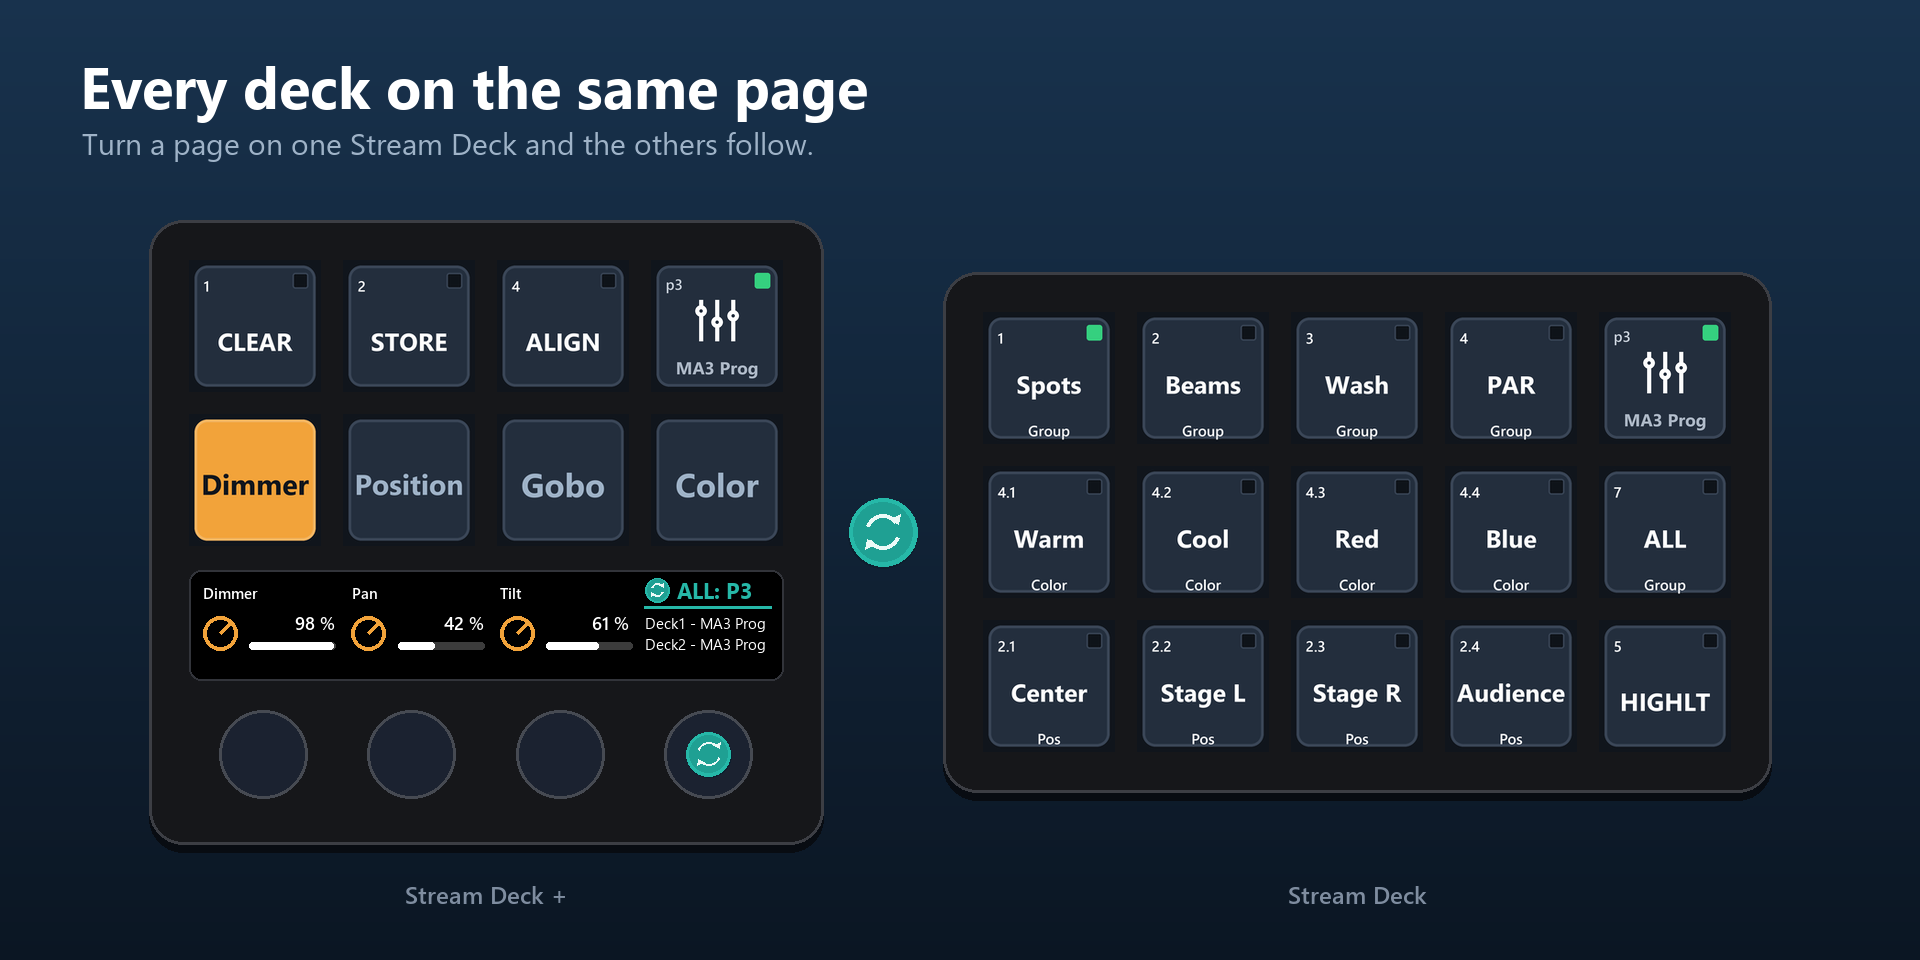
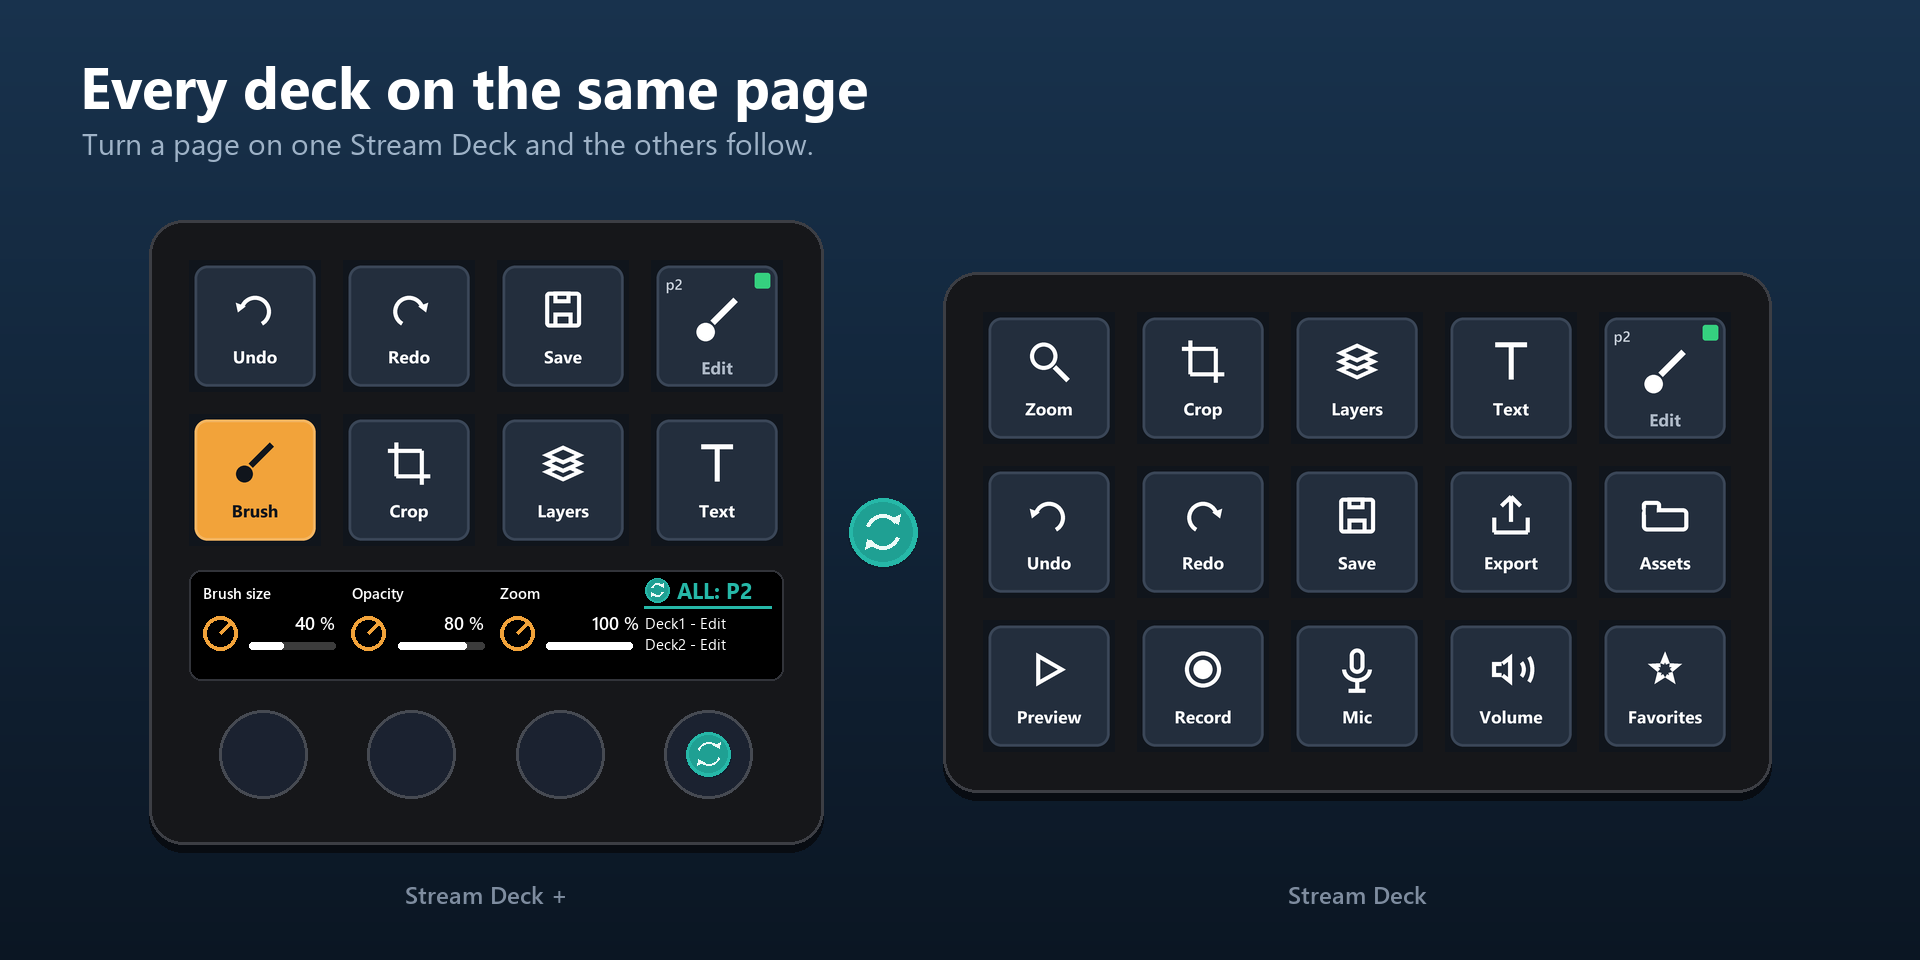
Illustrations: universal examples (editing, streaming, music, office) instead of lighting

diff --git a/tools/gen-promo.py b/tools/gen-promo.py
@@ -1,0 +1,246 @@
+# Universelle reklameillustrasjoner: redigering, strømming, musikk og kontor i stedet for lysprogrammering.
+# Skriver over docs/examples/1-3,5,6 og marketplace/gallery-*. Generiske ikoner, ingen varemerker.
+import importlib.util, math, os
+from PIL import Image, ImageDraw
+
+HERE = os.path.dirname(os.path.abspath(__file__))
+ROOT = os.path.dirname(HERE)
+
+
+def load(name, file):
+    spec = importlib.util.spec_from_file_location(name, os.path.join(HERE, file))
+    m = importlib.util.module_from_spec(spec)
+    spec.loader.exec_module(m)
+    return m
+
+
+il = load("il", "gen-illustrations.py")
+i2 = load("i2", "gen-illustrations-2.py")
+gi, f, KEY = il.gi, il.f, il.KEY
+WHITE, GREY, CYAN = il.WHITE, il.GREY, il.CYAN
+TILE = (35, 46, 61)
+ORANGE, RED, GREEN, DARK = (242, 163, 58), (214, 64, 64), (53, 208, 127), (16, 21, 28)
+
+
+# ---- generiske glyfer: (d, cx, cy, k, farge, strek) ----
+def g_brush(d, cx, cy, k, c, w):
+    d.line((cx + 16 * k, cy - 18 * k, cx - 4 * k, cy + 2 * k), fill=c, width=w + int(2 * k))
+    d.ellipse((cx - 18 * k, cy + 2 * k, cx - 2 * k, cy + 18 * k), fill=c)
+
+
+def g_crop(d, cx, cy, k, c, w):
+    d.line((cx - 12 * k, cy - 20 * k, cx - 12 * k, cy + 12 * k), fill=c, width=w)
+    d.line((cx - 12 * k, cy + 12 * k, cx + 20 * k, cy + 12 * k), fill=c, width=w)
+    d.line((cx - 20 * k, cy - 12 * k, cx + 12 * k, cy - 12 * k), fill=c, width=w)
+    d.line((cx + 12 * k, cy - 12 * k, cx + 12 * k, cy + 20 * k), fill=c, width=w)
+
+
+def g_layers(d, cx, cy, k, c, w):
+    for dy in (8, 0, -8):
+        y = cy + dy * k
+        d.polygon([(cx, y - 9 * k), (cx + 20 * k, y), (cx, y + 9 * k), (cx - 20 * k, y)], fill=TILE, outline=c, width=w)
+
+
+def _arc_arrow(d, cx, cy, r, a0, a1, c, w, head_at_start):
+    d.arc((cx - r, cy - r, cx + r, cy + r), start=a0, end=a1, fill=c, width=w)
+    a = math.radians(a0 if head_at_start else a1)
+    sgn = -1 if head_at_start else 1
+    tip = (cx + r * math.cos(a), cy + r * math.sin(a))
+    tx, ty = -math.sin(a) * sgn, math.cos(a) * sgn
+    nx, ny = math.cos(a), math.sin(a)
+    s = r * 0.55
+    base = (tip[0] - tx * s * 0.2, tip[1] - ty * s * 0.2)
+    d.polygon([(tip[0] + tx * s * 0.75, tip[1] + ty * s * 0.75), (base[0] + nx * s * 0.6, base[1] + ny * s * 0.6), (base[0] - nx * s * 0.6, base[1] - ny * s * 0.6)], fill=c)
+
+
+def g_undo(d, cx, cy, k, c, w):
+    _arc_arrow(d, cx, cy + 2 * k, 15 * k, 200, 60, c, w, True)
+
+
+def g_redo(d, cx, cy, k, c, w):
+    _arc_arrow(d, cx, cy + 2 * k, 15 * k, 120, 340, c, w, False)
+
+
+def g_text(d, cx, cy, k, c, w):
+    d.line((cx - 15 * k, cy - 16 * k, cx + 15 * k, cy - 16 * k), fill=c, width=w + int(k))
+    d.line((cx, cy - 16 * k, cx, cy + 17 * k), fill=c, width=w + int(k))
+
+
+def g_zoom(d, cx, cy, k, c, w):
+    d.ellipse((cx - 18 * k, cy - 18 * k, cx + 8 * k, cy + 8 * k), outline=c, width=w)
+    d.line((cx + 5 * k, cy + 5 * k, cx + 18 * k, cy + 18 * k), fill=c, width=w + int(k))
+
+
+def g_export(d, cx, cy, k, c, w):
+    d.line((cx - 16 * k, cy + 2 * k, cx - 16 * k, cy + 16 * k), fill=c, width=w)
+    d.line((cx - 16 * k, cy + 16 * k, cx + 16 * k, cy + 16 * k), fill=c, width=w)
+    d.line((cx + 16 * k, cy + 16 * k, cx + 16 * k, cy + 2 * k), fill=c, width=w)
+    d.line((cx, cy + 6 * k, cx, cy - 18 * k), fill=c, width=w)
+    d.line((cx, cy - 18 * k, cx - 9 * k, cy - 9 * k), fill=c, width=w)
+    d.line((cx, cy - 18 * k, cx + 9 * k, cy - 9 * k), fill=c, width=w)
+
+
+def g_save(d, cx, cy, k, c, w):
+    d.rounded_rectangle((cx - 17 * k, cy - 17 * k, cx + 17 * k, cy + 17 * k), radius=4 * k, outline=c, width=w)
+    d.rectangle((cx - 9 * k, cy - 17 * k, cx + 7 * k, cy - 6 * k), outline=c, width=w)
+    d.rectangle((cx - 9 * k, cy + 3 * k, cx + 9 * k, cy + 17 * k), outline=c, width=w)
+
+
+def g_mic(d, cx, cy, k, c, w):
+    d.rounded_rectangle((cx - 7 * k, cy - 20 * k, cx + 7 * k, cy + 4 * k), radius=7 * k, outline=c, width=w)
+    d.arc((cx - 14 * k, cy - 12 * k, cx + 14 * k, cy + 12 * k), start=0, end=180, fill=c, width=w)
+    d.line((cx, cy + 12 * k, cx, cy + 20 * k), fill=c, width=w)
+    d.line((cx - 8 * k, cy + 20 * k, cx + 8 * k, cy + 20 * k), fill=c, width=w)
+
+
+def g_rec(d, cx, cy, k, c, w):
+    d.ellipse((cx - 17 * k, cy - 17 * k, cx + 17 * k, cy + 17 * k), outline=c, width=w)
+    d.ellipse((cx - 9 * k, cy - 9 * k, cx + 9 * k, cy + 9 * k), fill=c)
+
+
+def g_chat(d, cx, cy, k, c, w):
+    d.rounded_rectangle((cx - 19 * k, cy - 16 * k, cx + 19 * k, cy + 9 * k), radius=6 * k, outline=c, width=w)
+    d.polygon([(cx - 9 * k, cy + 8 * k), (cx - 9 * k, cy + 19 * k), (cx + 2 * k, cy + 8 * k)], fill=c)
+
+
+def g_screen(d, cx, cy, k, c, w):
+    d.rounded_rectangle((cx - 20 * k, cy - 16 * k, cx + 20 * k, cy + 9 * k), radius=3 * k, outline=c, width=w)
+    d.line((cx, cy + 9 * k, cx, cy + 17 * k), fill=c, width=w)
+    d.line((cx - 10 * k, cy + 17 * k, cx + 10 * k, cy + 17 * k), fill=c, width=w)
+
+
+def g_note(d, cx, cy, k, c, w):
+    d.ellipse((cx - 14 * k, cy + 6 * k, cx - 2 * k, cy + 17 * k), fill=c)
+    d.line((cx - 3 * k, cy + 11 * k, cx - 3 * k, cy - 18 * k), fill=c, width=w)
+    d.line((cx - 3 * k, cy - 18 * k, cx + 13 * k, cy - 12 * k), fill=c, width=w + int(k))
+
+
+def g_next(d, cx, cy, k, c, w):
+    d.polygon([(cx - 14 * k, cy - 14 * k), (cx + 6 * k, cy), (cx - 14 * k, cy + 14 * k)], outline=c, width=w)
+    d.line((cx + 13 * k, cy - 14 * k, cx + 13 * k, cy + 14 * k), fill=c, width=w + int(k))
+
+
+def g_timer(d, cx, cy, k, c, w):
+    d.ellipse((cx - 16 * k, cy - 13 * k, cx + 16 * k, cy + 19 * k), outline=c, width=w)
+    d.line((cx, cy + 3 * k, cx, cy - 7 * k), fill=c, width=w)
+    d.line((cx - 5 * k, cy - 19 * k, cx + 5 * k, cy - 19 * k), fill=c, width=w)
+
+
+def g_mail(d, cx, cy, k, c, w):
+    d.rounded_rectangle((cx - 20 * k, cy - 13 * k, cx + 20 * k, cy + 14 * k), radius=3 * k, outline=c, width=w)
+    d.line((cx - 19 * k, cy - 11 * k, cx, cy + 3 * k), fill=c, width=w)
+    d.line((cx, cy + 3 * k, cx + 19 * k, cy - 11 * k), fill=c, width=w)
+
+
+def g_calendar(d, cx, cy, k, c, w):
+    d.rounded_rectangle((cx - 17 * k, cy - 14 * k, cx + 17 * k, cy + 17 * k), radius=3 * k, outline=c, width=w)
+    d.line((cx - 17 * k, cy - 4 * k, cx + 17 * k, cy - 4 * k), fill=c, width=w)
+    for dx in (-8, 8):
+        d.line((cx + dx * k, cy - 19 * k, cx + dx * k, cy - 11 * k), fill=c, width=w)
+
+
+def ukey(label, glyph, fill=None):
+    """Vanlig tast: ikon og navn. fill gir farget flis (aktiv/advarsel)."""
+    S, q = 576, 4
+    img, d, _ = gi.tile_base(S)
+    fg = WHITE
+    if fill:
+        edge = tuple(min(255, int(ch * 0.8 + 51)) for ch in fill)
+        d.rounded_rectangle((6 * q, 6 * q, 138 * q, 138 * q), radius=14 * q, fill=fill, outline=edge, width=3 * q)
+        fg = DARK if (0.299 * fill[0] + 0.587 * fill[1] + 0.114 * fill[2]) > 150 else WHITE
+    if fill:  # glyfer med TILE-fyll (lag) trenger flisfargen
+        global TILE
+        old, TILE = TILE, fill
+        glyph(d, 72 * q, 54 * q, q * 1.15, fg, int(4.5 * q))
+        TILE = old
+    else:
+        glyph(d, 72 * q, 54 * q, q * 1.15, fg, int(4.5 * q))
+    fo = f(19 * q, "bold")
+    tw = d.textlength(label, font=fo)
+    d.text(((S - tw) / 2, 92 * q), label, font=fo, fill=fg)
+    return img.resize((KEY, KEY), Image.LANCZOS)
+
+
+U = {
+    "undo": ukey("Undo", g_undo), "redo": ukey("Redo", g_redo), "save": ukey("Save", g_save), "export": ukey("Export", g_export),
+    "brush": ukey("Brush", g_brush, ORANGE), "crop": ukey("Crop", g_crop), "layers": ukey("Layers", g_layers), "text": ukey("Text", g_text),
+    "zoom": ukey("Zoom", g_zoom), "assets": ukey("Assets", gi.g_folder), "preview": ukey("Preview", gi.g_play),
+    "mic": ukey("Mic", g_mic), "cam": ukey("Camera", gi.g_video), "live": ukey("Go Live", g_rec, RED), "rec": ukey("Record", g_rec),
+    "chat": ukey("Chat", g_chat), "scene1": ukey("Scene 1", g_screen), "scene2": ukey("Scene 2", g_screen), "volume": ukey("Volume", gi.g_sound),
+    "music": ukey("Music", g_note), "play": ukey("Play", gi.g_play, GREEN), "next": ukey("Next", g_next), "timer": ukey("Timer", g_timer),
+    "mail": ukey("Mail", g_mail), "calendar": ukey("Calendar", g_calendar), "fav": ukey("Favorites", gi.g_star), "settings": ukey("Settings", gi.g_gear),
+    "lights": ukey("Lights", gi.g_light),
+}
+PAGES = {1: ("Home", gi.g_home), 2: ("Edit", g_brush), 3: ("Stream", g_rec), 4: ("Music", g_note)}
+mk = lambda p, lit=True: il.marker(p, PAGES[p][0], PAGES[p][1], lit)
+stp = lambda p, prev=False: i2.step(p, PAGES[p][0], PAGES[p][1], prev)
+
+EDIT_PLUS = lambda lit=True: [U["undo"], U["redo"], U["save"], mk(2, lit), U["brush"], U["crop"], U["layers"], U["text"]]
+EDIT_15 = lambda: [U["zoom"], U["crop"], U["layers"], U["text"], mk(2), U["undo"], U["redo"], U["save"], U["export"], U["assets"],
+                   U["preview"], U["rec"], U["mic"], U["volume"], U["fav"]]
+HOME_15 = lambda: [U["mail"], U["calendar"], U["chat"], U["music"], mk(1, False), U["scene1"], U["assets"], U["timer"], U["volume"], U["mic"],
+                   U["play"], U["next"], U["fav"], U["settings"], U["lights"]]
+SEGS = [("Brush size", 40), ("Opacity", 80), ("Zoom", 100)]
+
+
+def both(name, fn):
+    for folder, prefix in (("docs/examples", ""), ("marketplace", "gallery-")):
+        fn(os.path.join(ROOT, folder, prefix + name))
+
+
+def no_dial(out):
+    img, d = i2.header("No dial? No problem", "Page step keys go to the next or previous page, and show where they lead.")
+    sd15 = EDIT_15()
+    sd15[10], sd15[14] = stp(1, True), stp(3)
+    mini = [U["undo"], U["save"], mk(2), stp(1, True), U["brush"], stp(3)]
+    KEYW, GAP, PAD = il.KEY, il.GAP, il.PAD
+    w1, w2 = 5 * KEYW + 4 * GAP + 2 * PAD, 3 * KEYW + 2 * GAP + 2 * PAD
+    h1, h2 = 3 * KEYW + 2 * GAP + 2 * PAD, 2 * KEYW + GAP + 2 * PAD
+    x1, y1 = (il.W - (w1 + 140 + w2)) // 2, 250
+    x2, y2 = x1 + w1 + 140, y1 + (h1 - h2) // 2
+    i2.device(img, x1, y1, 5, 3, sd15)
+    i2.device(img, x2, y2, 3, 2, mini)
+    gi.draw_sync_badge(d, x1 + w1 + 70, y1 + h1 // 2, 34, 0.3)
+    i2.caption(d, x1 + w1 // 2, y1 + h1 + 34, "Stream Deck")
+    i2.caption(d, x2 + w2 // 2, y1 + h1 + 34, "Stream Deck Mini")
+    img.save(out)
+
+
+def virtual(out):
+    img, d = i2.header("Virtual Stream Deck as a remote", "Put DeckSync keys on a virtual deck on your screen and save keys on the real ones.")
+    KEYW, GAP, PAD = il.KEY, il.GAP, il.PAD
+    vk = [stp(1, True), i2.tile("Edit", "p2", "Deck1", g_brush, lit=True), stp(3),
+          i2.tile("Home", "p1", "go to", gi.g_home), i2.tile("Music", "p4", "go to", g_note), i2.tile("ALL", note="target", big=True)]
+    vw, vh = 3 * KEYW + 2 * GAP + 2 * PAD, 2 * KEYW + GAP + 2 * PAD
+    x1, y1 = 150, 300
+    d.rounded_rectangle((x1 - 6, y1 - 42, x1 + vw + 6, y1 + vh + 14), radius=18, fill=(8, 12, 18))
+    d.rounded_rectangle((x1 - 6, y1 - 50, x1 + vw + 6, y1 + vh + 6), radius=18, fill=(34, 36, 42), outline=(78, 82, 92), width=2)
+    d.text((x1 + 14, y1 - 40), "Virtual Stream Deck", font=f(22, "semi"), fill=(200, 205, 214))
+    for i, c in enumerate(((255, 95, 86), (255, 189, 46), (39, 201, 63))):
+        d.ellipse((x1 + vw - 78 + i * 26, y1 - 34, x1 + vw - 62 + i * 26, y1 - 18), fill=c)
+    il.grid(img, x1, y1, vk, 3)
+    i2.caption(d, x1 + vw // 2, y1 + vh + 40, "On your screen")
+    w2, h2 = 5 * KEYW + 4 * GAP + 2 * PAD, 3 * KEYW + 2 * GAP + 2 * PAD
+    x2, y2 = il.W - 150 - w2, y1 + (vh - h2) // 2 - 10
+    i2.device(img, x2, y2, 5, 3, EDIT_15())
+    i2.caption(d, x2 + w2 // 2, y2 + h2 + 34, "Your Stream Decks follow")
+    ax0, ax1, ay = x1 + vw + 30, x2 - 30, y1 + vh // 2
+    d.line((ax0, ay, ax1 - 20, ay), fill=CYAN, width=8)
+    d.polygon([(ax1, ay), (ax1 - 30, ay - 20), (ax1 - 30, ay + 20)], fill=CYAN)
+    img.save(out)
+
+
+def main():
+    both("1-follow.png", lambda o: il.scene(o, "Every deck on the same page", "Turn a page on one Stream Deck and the others follow.",
+                                            EDIT_PLUS(), EDIT_15(), ([("Deck1 - Edit", WHITE), ("Deck2 - Edit", WHITE)], "ALL: P2", CYAN, SEGS)))
+    both("2-split.png", lambda o: il.scene(o, "Or send each deck its own way", "A Go to page key or the dial moves one deck. The strip shows where every deck is.",
+                                           EDIT_PLUS(False), HOME_15(), ([("Deck1: P2 Edit", WHITE), ("Deck2: P1 Home", WHITE)], "PAGES", GREY, SEGS)))
+    both("3-dial.png", lambda o: il.scene(o, "One dial for every page", "Turn to pick a page, press to go there. Hold and turn to choose which deck.",
+                                          EDIT_PLUS(), EDIT_15(), ([("Stream", WHITE), ("target: ALL", GREY)], "→ P3", CYAN, SEGS), dial_active=True))
+    both("5-no-dial.png", no_dial)
+    both("6-virtual-remote.png", virtual)
+    print("ok")
+
+
+if __name__ == "__main__":
+    main()

diff --git a/tools/gen-dial-illustration.py b/tools/gen-dial-illustration.py
@@ -57,12 +57,12 @@ def main():
     d.text((82, 122), "One dial on Stream Deck + moves every deck. The touch strip always shows where they are.", font=f(30), fill=GREY)
 
     steps = [
-        ("1", "At rest", "Shows the page of every deck.", "ALL: P3", CYAN,
-         [("Deck1 - MA3 Prog", WHITE, 28), ("Deck2 - Groups", WHITE, 28)], dict()),
-        ("2", "Turn", "Pick a page. Nothing moves yet.", "\u2192 P4", CYAN,
-         [("Playback", WHITE, 30), ("target: ALL", GREY, 26)], dict(turn=True)),
-        ("3", "Press", "All decks go to the page.", "ALL: P4", CYAN,
-         [("Deck1 - Playback", WHITE, 28), ("Deck2 - Cues", WHITE, 28)], dict(press=True)),
+        ("1", "At rest", "Shows the page of every deck.", "ALL: P2", CYAN,
+         [("Deck1 - Edit", WHITE, 28), ("Deck2 - Tools", WHITE, 28)], dict()),
+        ("2", "Turn", "Pick a page. Nothing moves yet.", "\u2192 P3", CYAN,
+         [("Stream", WHITE, 30), ("target: ALL", GREY, 26)], dict(turn=True)),
+        ("3", "Press", "All decks go to the page.", "ALL: P3", CYAN,
+         [("Deck1 - Stream", WHITE, 28), ("Deck2 - Scenes", WHITE, 28)], dict(press=True)),
         ("4", "Hold and turn", "Choose which deck to move.", "TURN: DECK", CYAN,
          [("target: Deck2", WHITE, 30)], dict(turn=True, press=True)),
     ]

diff --git a/README.md b/README.md
@@ -20,11 +20,11 @@ DeckSync is a plugin for the Elgato Stream Deck app. Connect two or more Stream 
 
 ## Examples
 
-**Follow mode.** Both decks on page 3. The page markers show the page name and icon, the green square means the decks are in sync, and the strip reads `ALL: P3`.
+**Follow mode.** Both decks on page 2. The page markers show the page name and icon, the green square means the decks are in sync, and the strip reads `ALL: P2`.
 
 ![Every deck on the same page](docs/examples/1-follow.png)
 
-**Split.** Stream Deck + stays on page 3 while the other deck is on page 1. The strip lists where every deck is.
+**Split.** Stream Deck + stays on page 2 while the other deck is on page 1. The strip lists where every deck is.
 
 ![Each deck its own way](docs/examples/2-split.png)
 
